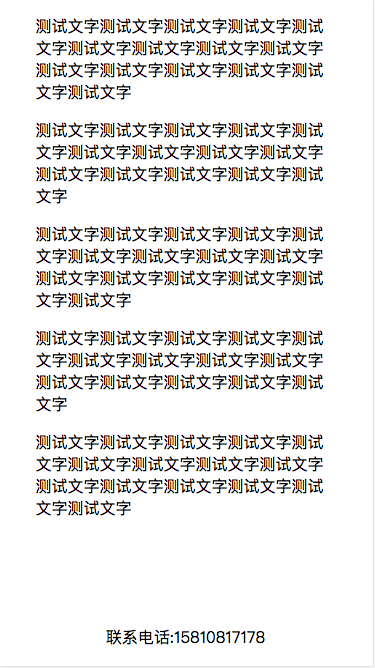
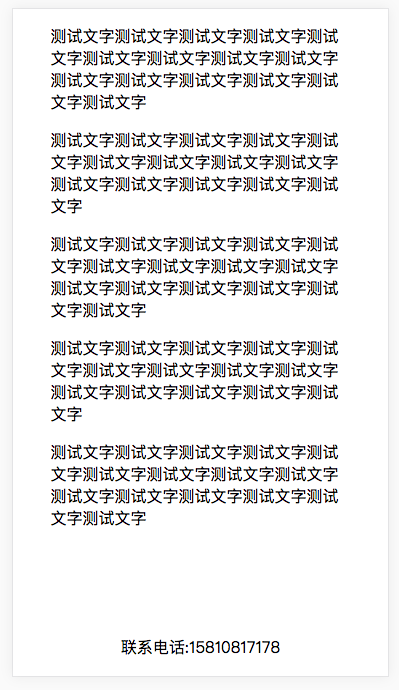
Mdf sticky footer

Changed region(s): [[0.088, 0.0299, 0.88, 0.7784], [0.264, 0.9281, 0.704, 0.988]]

diff --git a/dist/js/sticky-footer/app_109199a9.min.js b/dist/js/sticky-footer/app_109199a9.min.js
@@ -1,0 +1,1 @@
+!function(e){function p(t){if(n[t])return n[t].exports;var o=n[t]={i:t,l:!1,exports:{}};return e[t].call(o.exports,o,o.exports,p),o.l=!0,o.exports}var n={};p.m=e,p.c=n,p.i=function(e){return e},p.d=function(e,n,t){p.o(e,n)||Object.defineProperty(e,n,{configurable:!1,enumerable:!0,get:t})},p.n=function(e){var n=e&&e.__esModule?function(){return e.default}:function(){return e};return p.d(n,"a",n),n},p.o=function(e,p){return Object.prototype.hasOwnProperty.call(e,p)},p.p="../js/sticky-footer/",p(p.s=2)}([function(e,p){},function(e,p){e.exports=function(e,p){p={},p.__escapehtml={escapehash:{"<":"&lt;",">":"&gt;","&":"&amp;",'"':"&quot;","'":"&#x27;","/":"&#x2f;"},escapereplace:function(e){return __escapehtml.escapehash[e]},escaping:function(e){return"string"!=typeof e?e:e.replace(/[&<>"']/gim,this.escapereplace)},detection:function(e){return void 0===e?"":e}},p.__throw=function(e){if("undefined"!=typeof console){if(console.warn)return void console.warn(e);if(console.log)return void console.log(e)}throw e};var e=e||{},n="";n+="";try{n+="";e.div,e.sf,e.content,e.p,e.footer;n+='<div class="yiyi-sf">  <div class="sf-content">   <p>测试文字测试文字测试文字测试文字测试文字测试文字测试文字测试文字测试文字测试文字测试文字测试文字测试文字测试文字测试文字</p>   <p>测试文字测试文字测试文字测试文字测试文字测试文字测试文字测试文字测试文字测试文字测试文字测试文字测试文字测试文字</p>   <p>测试文字测试文字测试文字测试文字测试文字测试文字测试文字测试文字测试文字测试文字测试文字测试文字测试文字测试文字测试文字</p>   <p>测试文字测试文字测试文字测试文字测试文字测试文字测试文字测试文字测试文字测试文字测试文字测试文字测试文字测试文字</p>   <p>测试文字测试文字测试文字测试文字测试文字测试文字测试文字测试文字测试文字测试文字测试文字测试文字测试文字测试文字测试文字</p>   <p>测试文字测试文字测试文字测试文字测试文字测试文字测试文字测试文字测试文字测试文字测试文字测试文字测试文字测试文字测试文字</p>   <p>测试文字测试文字测试文字测试文字测试文字测试文字测试文字测试文字测试文字测试文字测试文字测试文字测试文字测试文字测文字</p>   <p>测试文字测试文字测试文字测试文字测试文字测试文字测试文字测试文字测试文字测试文字测试文字测试文字测试文字测试文字测试文字</p>   <p>测试文字测试文字测试文字测试文字测试文字测试文字测试文字测试文字测试文字测试文字测试文字测试文字测试文字测试文试文字</p>   <p>测试文字测试文字测试文字测试文字测试文字测试文字测试文字测试文字测试文字测试文字测试文字测试文字测试文字测试文字试文字</p>   <p>测试文字测试文字测试文字测试文字测试文字测试文字测试文字测试文字测试文字测试文字测试文字测试文字测试文字</p>   <p>测试文字测试文字测试文字测试文字测试文字测试文字测试文字测试文字测试文字测试文字测试文字测试文字测试文字测试文字测试文字</p>   <p>测试文字测试文字测试文字测试文字测试文字测试文字测试文字测试文字测试文字测试文字测试文字测试文字测试文字测试文字测文字</p>   <p>测试文字测试文字测试文字测试文字测试文字测试文字测试文字测试文字测试文字测试文字测试文字测试文字测试文字测试文字测试文字</p>   <p>测试文字测试文字测试文字测试文字测试文字测试文字测试文字测试文字测试文字测试文字测试文字测试文字测试文字测试文试文字</p>   <p>测试文字测试文字测试文字测试文字测试文字测试文字测试文字测试文字测试文字测试文字测试文字测试文字测试文字测试文字试文字</p>   <p>测试文字测试文字测试文字测试文字测试文字测试文字测试文字测试文字测试文字测试文字测试文字测试文字测试文字</p>   <p>测试文字测试文字测试文字测试文字测试文字测试文字测试文字测试文字测试文字测试文字测试文字测试文字测试文字测试文字测文字</p>   <p>测试文字测试文字测试文字测试文字测试文字测试文字测试文字测试文字测试文字测试文字测试文字测试文字测试文字测试文字测试文字</p>   <p>测试文字测试文字测试文字测试文字测试文字测试文字测试文字测试文字测试文字测试文字测试文字测试文字测试文字测试文试文字</p>   <p>测试文字测试文字测试文字测试文字测试文字测试文字测试文字测试文字测试文字测试文字测试文字测试文字测试文字测试文字试文字</p>   <p>测试文字测试文字测试文字测试文字测试文字测试文字测试文字测试文字测试文字测试文字测试文字测试文字测试文字</p>  </div>  <div class="sf-footer">联系电话:15810817178</div> </div>'}catch(e){p.__throw("Juicer Render Exception: "+e.message)}return n+=""}},function(e,p,n){console.log("test"),n(0);var t=n(1);$("body").append(t())}]);

diff --git a/dist/html/sticky-footer.html b/dist/html/sticky-footer.html
@@ -4,8 +4,8 @@
 	<meta charset="UTF-8"/>
 	<title>sticky-footer</title>
 	<meta name="viewport" content="width=device-width, initial-scale=1, maximum-scale=1, minimum-scale=1, user-scalable=no" />
-<link href="../js/sticky-footer/../../css/sticky-footer/app_eab527e7.min.css" rel="stylesheet"></head>
+<link href="../js/sticky-footer/../../css/sticky-footer/app_109199a9.min.css" rel="stylesheet"></head>
 <body>
 	<script type="text/javascript" src="../js/libs/jquery-2.1.0.min.js"></script>
-<script type="text/javascript" src="../js/sticky-footer/app_eab527e7.min.js"></script></body>
+<script type="text/javascript" src="../js/sticky-footer/app_109199a9.min.js"></script></body>
 </html>

diff --git a/src/sticky-footer/README.md b/src/sticky-footer/README.md
@@ -1,13 +1,12 @@
 # sticky footer
+>sticky footer是比较常用的css效果之一。概括如下：如果页面内容不够长的时候，页脚块粘贴在视窗底部；如果内容足够长时，页脚块会被内容向下推送。
 
-
-
-> ## 效果
+### 效果
 ![效果展示-moretext](./img/moretext.png)
 ![效果展示-lesstext](./img/lesstext.png)
 
 
->## HTML代码
+### HTML代码
 
 ```
 <div class="yiyi-sf">
@@ -38,12 +37,12 @@
 	<div class="sf-footer">联系电话:15810817178</div>
 </div>
 ```
-> ## CSS代码
+### CSS代码
 ```
 .yiyi-sf {
     height: 100%;
     .sf-content {
-		overflow: hidden;
+        overflow: hidden;
         width: 80%;
         margin: 0 auto;
         min-height: 100%;
@@ -56,3 +55,17 @@
 }
 
 ```
+
+### 相关基础必备知识 - 父子元件margin重合问题解决办法
+- #### 父容器设定border
+- #### 父容器设定padding
+- #### 父容器设定 position:absolute
+- #### 父容器设定 overflow:hidden(推荐)
+- 
+
+### 参考资料
+- #### [sticky-footer的三种解决方案](http://www.cnblogs.com/shicongbuct/p/6487122.html)
+- #### [CSS秘密花园： Sticky footers](http://www.w3cplus.com/css3/css-secrets/sticky-footers.html)
+
+- #### [Sticky footers解决方案总结](https://segmentfault.com/a/1190000008335329)
+- #### [Sticky Footer 绝对底部的两种套路](https://www.cnblogs.com/wisewrong/p/6525696.html)

diff --git a/README.md b/README.md
@@ -1,1 +1,3 @@
 # Training to new comers
+
+- ## sticky footer
